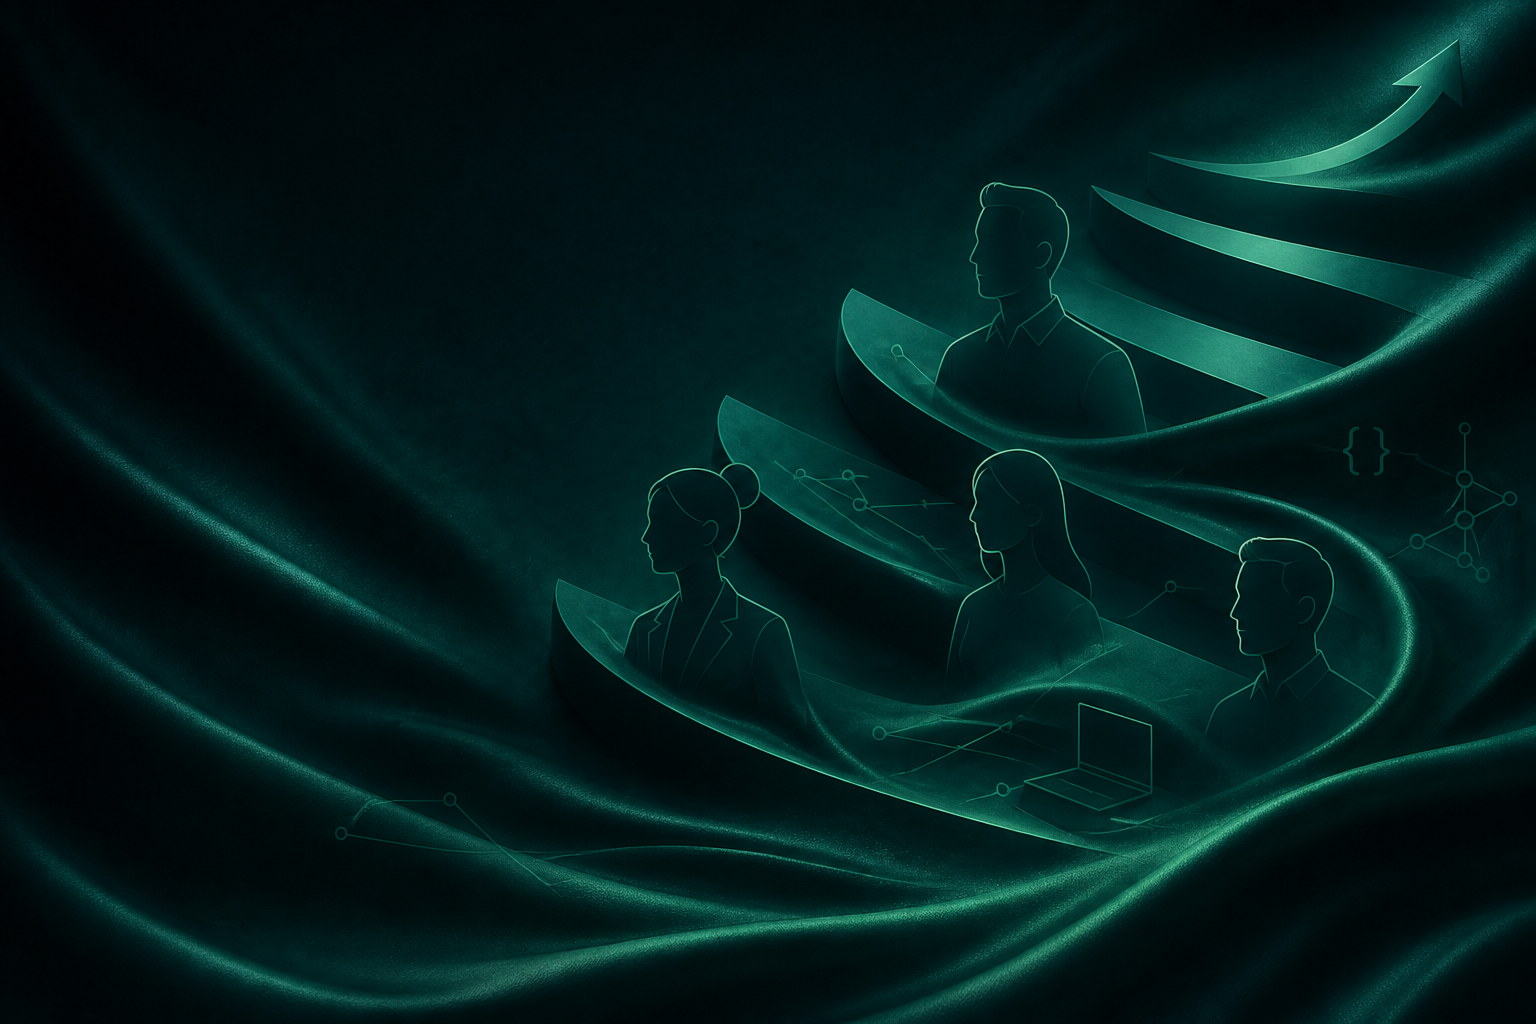
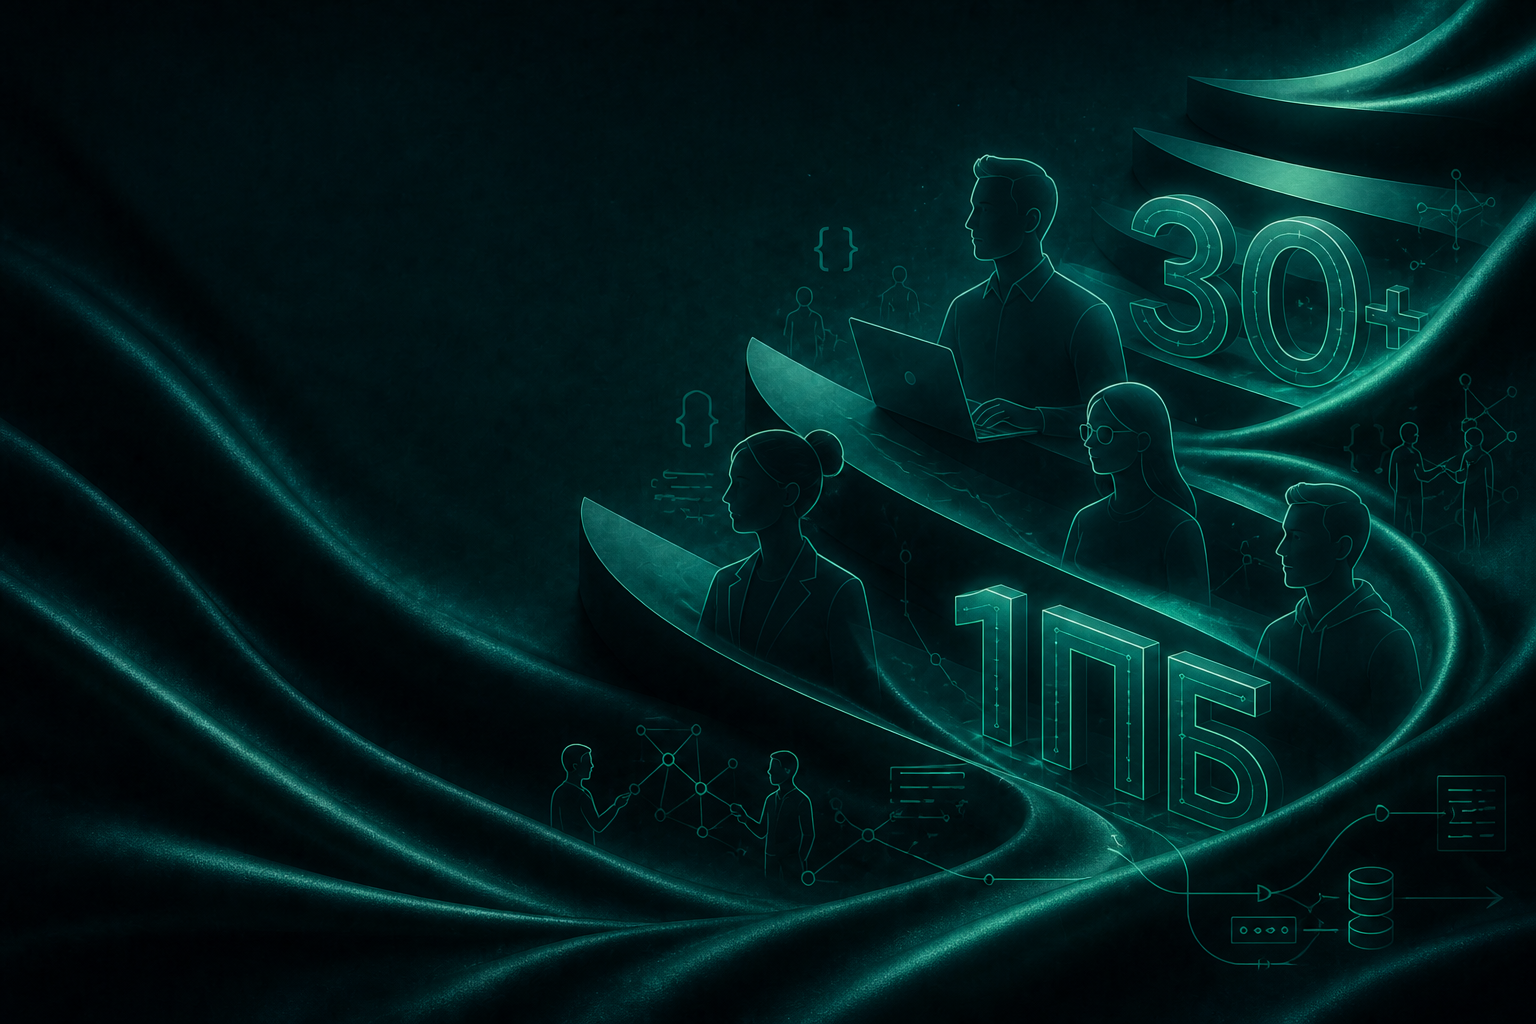
78787

diff --git a/site-map.html b/site-map.html
@@ -12,11 +12,14 @@
   <link rel="canonical" href="https://digi-track.ru/site-map.html"/>
   <meta name="robots" content="index, follow"/>
   <meta name="author" content="DigiTrack"/>
+  <meta http-equiv="Cache-Control" content="no-cache, no-store, must-revalidate"/>
+  <meta http-equiv="Pragma" content="no-cache"/>
+  <meta http-equiv="Expires" content="0"/>
   <link href="https://cdn.jsdelivr.net/npm/bootstrap@5.3.3/dist/css/bootstrap.min.css" rel="stylesheet"/>
   <link rel="preconnect" href="https://fonts.googleapis.com"/>
   <link rel="preconnect" href="https://fonts.gstatic.com" crossorigin/>
   <link href="https://fonts.googleapis.com/css2?family=Manrope:wght@400;500;600;700;800&display=swap" rel="stylesheet">
-  <link rel="stylesheet" href="./styles.css?v=20260831ad"/>
+  <link rel="stylesheet" href="./styles.css?v=2026083115"/>
   <link rel="icon" type="image/x-icon" href="/favicon.ico">
   <script type="application/ld+json">{
   "@context": "https://schema.org",
@@ -169,9 +172,9 @@
 }</script>
   <script type="application/ld+json">{"@context": "https://schema.org", "@type": "BreadcrumbList", "@id": "https://digi-track.ru/site-map.html#breadcrumb", "itemListElement": [{"@type": "ListItem", "position": 1, "name": "Главная", "item": "https://digi-track.ru/index.html"}, {"@type": "ListItem", "position": 2, "name": "Карта сайта", "item": "https://digi-track.ru/site-map.html"}]}</script>
 </head>
-<body class="site-map-page">
+<body class="site-map-page bg-deep">
 
-  <nav class="navbar navbar-expand-lg navbar-light sticky-top nav-glass nav-light" aria-label="Primary" style="background: rgba(255,255,255,.85); border: 1px solid rgba(0,0,0,.08); box-shadow: 0 18px 50px -28px rgba(0,0,0,.35), inset 0 1px rgba(255,255,255,.85);">
+  <nav class="navbar navbar-expand-lg navbar-light sticky-top nav-glass nav-light" aria-label="Primary" style="background:#ffffff; border:1px solid rgba(0,0,0,.08); box-shadow:0 18px 50px -28px rgba(0,0,0,.35);">
     <div class="container">
       <a class="navbar-brand fw-semibold" href="index.html" style="color:#020827 !important;">DigiTrack</a>
       <button class="navbar-toggler" type="button" data-bs-toggle="collapse" data-bs-target="#navMain" aria-controls="navMain" aria-expanded="false" aria-label="Переключить меню">
@@ -193,29 +196,35 @@
     </div>
   </nav>
 
-  <main>
-    <section class="hero-hero py-4 position-relative overflow-hidden" style="min-height: auto; background: transparent; color: var(--text-dark);">
-      <div class="container position-relative">
-        <nav class="breadcrumb-nav breadcrumb-nav--in-header" aria-label="Хлебные крошки">
-          <ol class="breadcrumb mb-0" itemscope itemtype="https://schema.org/BreadcrumbList">
-            <li class="breadcrumb-item" itemprop="itemListElement" itemscope itemtype="https://schema.org/ListItem">
-              <a itemprop="item" href="index.html"><span itemprop="name">Главная</span></a>
-              <meta itemprop="position" content="1"/>
-            </li>
-            <li class="breadcrumb-item active" itemprop="itemListElement" itemscope itemtype="https://schema.org/ListItem">
-              <span itemprop="name">Карта сайта</span>
-              <meta itemprop="position" content="2"/>
-            </li>
-          </ol>
-        </nav>
-        <h1 class="h1 mb-2 mt-0">Карта сайта</h1>
-        <p class="text-mute-300 mb-2">Полная структура сайта DigiTrack (ООО «ДТ»): продукты, услуги, материалы блога и служебные страницы.</p>
-        <p class="small mb-0"><a class="site-map-meta-link" href="sitemap.xml">XML-карта для поисковых систем (sitemap.xml) →</a></p>
-      </div>
-    </section>
+  <div class="breadcrumb-bar">
+    <div class="container">
+      <nav class="breadcrumb-nav breadcrumb-nav--under-nav" aria-label="Хлебные крошки">
+        <ol class="breadcrumb mb-0" itemscope itemtype="https://schema.org/BreadcrumbList">
+          <li class="breadcrumb-item" itemprop="itemListElement" itemscope itemtype="https://schema.org/ListItem">
+            <a itemprop="item" href="index.html"><span itemprop="name">Главная</span></a>
+            <meta itemprop="position" content="1"/>
+          </li>
+          <li class="breadcrumb-item active" itemprop="itemListElement" itemscope itemtype="https://schema.org/ListItem">
+            <span itemprop="name">Карта сайта</span>
+            <meta itemprop="position" content="2"/>
+          </li>
+        </ol>
+      </nav>
+    </div>
+  </div>
 
-    <section class="py-6 bg-section">
-      <div class="container">
+  <main>
+    <section id="site-map" class="blog-hub-page">
+      <div class="page-shell page-hero-banner">
+        <figure class="page-hero-visual mb-0" aria-hidden="true">
+          <video class="hero-video" src="img/frame-hero-animated.mp4" autoplay muted loop playsinline preload="metadata"></video>
+        </figure>
+      </div>
+      <div class="page-shell site-map-page-content">
+        <h1 class="blog-hub-title mb-3">Карта сайта</h1>
+        <p class="site-map-intro-text mb-2">Полная структура сайта DigiTrack (ООО «ДТ»): продукты, услуги, материалы блога и служебные страницы.</p>
+        <p class="site-map-intro-text mb-5"><a class="site-map-meta-link" href="sitemap.xml">XML-карта для поисковых систем (sitemap.xml) →</a></p>
+
         <div class="site-map-sections">
           <section class="glass pad-2x site-map-section" id="products">
             <h2 class="h5 fw-700 mb-3">Продукты и услуги</h2>

diff --git a/styles.css b/styles.css
@@ -323,13 +323,7 @@ body{
   box-shadow: 0 12px 40px -20px rgba(0,0,0,.2), inset 0 1px rgba(0,0,0,.05);
 }
 
-/* Light header on white pages (expert review, sitemap) */
-.expert-review-page .nav-glass.nav-light,
-.site-map-page .nav-glass.nav-light {
-  background: rgba(255, 255, 255, 0.75);
-  border: 1px solid rgba(0,0,0,.08);
-  box-shadow: 0 18px 50px -28px rgba(0,0,0,.35), inset 0 1px rgba(255,255,255,.8);
-}
+/* Light header on white pages (expert review, sitemap) — see block below for !important overrides */
 
 
 .nav-glass.nav-light .navbar-brand {
@@ -3365,21 +3359,32 @@ footer .col-6.col-lg-3:first-child {
   }
 }
 
-/* Expert review page: force light "converted" header (desktop/top) */
-.expert-review-page .nav-glass.nav-light{
-  background: rgba(255, 255, 255, 0.85) !important;
+/* Expert review & site map: force light header (desktop/top) */
+.expert-review-page .nav-glass.nav-light,
+.site-map-page .nav-glass.nav-light {
+  background: #ffffff !important;
+  backdrop-filter: none !important;
+  -webkit-backdrop-filter: none !important;
   border: 1px solid rgba(0,0,0,.08) !important;
   box-shadow: 0 18px 50px -28px rgba(0,0,0,.35), inset 0 1px rgba(255,255,255,.85) !important;
 }
-.expert-review-page .nav-glass.nav-light .navbar-brand{
+.expert-review-page .nav-glass.nav-light .navbar-brand,
+.site-map-page .nav-glass.nav-light .navbar-brand {
   color: #020827 !important;
 }
-.expert-review-page .nav-glass.nav-light .nav-link{
+.expert-review-page .nav-glass.nav-light .nav-link,
+.site-map-page .nav-glass.nav-light .nav-link {
   color: #020827 !important;
 }
-.expert-review-page .nav-glass.nav-light .nav-link:hover{
+.expert-review-page .nav-glass.nav-light .nav-link:hover,
+.site-map-page .nav-glass.nav-light .nav-link:hover {
   color: #020827 !important;
   background: rgba(0,0,0,.05) !important;
+}
+.expert-review-page .nav-glass.nav-light .btn-primary-gy,
+.site-map-page .nav-glass.nav-light .btn-primary-gy {
+  background: #1a4d3a !important;
+  color: #ffffff !important;
 }
 
 /* Data platform page */
@@ -4135,8 +4140,17 @@ details.seo-details summary {
   margin-bottom: 0;
 }
 
+.vacancies-shell {
+  max-width: var(--menu-width) !important;
+  width: 100%;
+  margin-left: auto;
+  margin-right: auto;
+  padding-left: 24px;
+  padding-right: 24px;
+}
+
 .vacancies-intro-text {
-  max-width: 44rem;
+  max-width: none;
   font-size: 1rem;
   font-weight: 400;
   line-height: 1.55;
@@ -4144,12 +4158,26 @@ details.seo-details summary {
   color: var(--muted-300, #6B7280) !important;
 }
 
+.vacancies-hero-banner {
+  margin: 0 auto;
+  padding-top: 1.25rem;
+  padding-left: 0 !important;
+  padding-right: 0 !important;
+}
+
+.vacancies-page-content {
+  padding-top: 1.5rem;
+  padding-bottom: 3.5rem;
+}
+
 .vacancies-hero-visual {
+  position: relative;
   margin: 0;
   border-radius: 1rem;
   overflow: hidden;
-  aspect-ratio: 16 / 9;
-  max-height: 22rem;
+  aspect-ratio: 32 / 9;
+  width: 100%;
+  background: var(--deeper);
 }
 
 .vacancies-hero-visual img {
@@ -4159,6 +4187,74 @@ details.seo-details summary {
   object-position: center;
   display: block;
   border-radius: 0 !important;
+}
+
+.vacancies-hero-visual .hero-video,
+.page-hero-visual .hero-video {
+  position: absolute;
+  inset: 0;
+  width: 100%;
+  height: 100%;
+  object-fit: cover;
+  object-position: center;
+  opacity: 0.85;
+  pointer-events: none;
+}
+
+/* Site map page — same shell layout as vacancies, white header */
+.page-shell {
+  max-width: var(--menu-width) !important;
+  width: 100%;
+  margin-left: auto;
+  margin-right: auto;
+  padding-left: 24px;
+  padding-right: 24px;
+}
+
+.page-hero-banner {
+  margin: 0 auto;
+  padding-top: 1.25rem;
+  padding-left: 0 !important;
+  padding-right: 0 !important;
+}
+
+.site-map-page-content {
+  padding-top: 1.5rem;
+  padding-bottom: 3.5rem;
+}
+
+.page-hero-visual {
+  position: relative;
+  margin: 0;
+  border-radius: 1rem;
+  overflow: hidden;
+  aspect-ratio: 32 / 9;
+  width: 100%;
+  background: var(--deeper);
+}
+
+.page-hero-visual img {
+  width: 100%;
+  height: 100%;
+  object-fit: cover;
+  object-position: center;
+  display: block;
+  border-radius: 0 !important;
+}
+
+.site-map-intro-text {
+  max-width: none;
+  font-size: 1rem;
+  font-weight: 400;
+  line-height: 1.55;
+  letter-spacing: normal;
+  color: var(--muted-300, #6B7280) !important;
+}
+
+#vacancies .glass > .d-flex h3 {
+  font-size: clamp(1.375rem, 2.2vw, 1.625rem);
+  font-weight: 700;
+  line-height: 1.3;
 }
 
 #vacancies .glass ul li::before {

diff --git a/vacancies.html b/vacancies.html
@@ -52,7 +52,7 @@
   <link href="https://fonts.googleapis.com/css2?family=Manrope:wght@400;500;600;700;800&display=swap" rel="stylesheet">
 
   <!-- App CSS -->
-  <link rel="stylesheet" href="./styles.css?v=20260831af"/>
+  <link rel="stylesheet" href="./styles.css?v=2026083115"/>
   
   <!-- Favicon and Icons -->
   <link rel="icon" type="image/x-icon" href="/favicon.ico">
@@ -105,13 +105,16 @@
   </div>
 
   <main>
-    <section id="vacancies" class="py-6 blog-hub-page">
-      <div class="container">
-        <figure class="vacancies-hero-visual mb-4" aria-hidden="true">
-          <img src="img/vacancies-abstract.png?v=1" alt="" loading="eager" width="1200" height="675">
+    <section id="vacancies" class="blog-hub-page">
+      <div class="vacancies-shell vacancies-hero-banner">
+        <figure class="vacancies-hero-visual mb-0" aria-hidden="true">
+          <video class="hero-video" src="img/frame-hero-animated.mp4" autoplay muted loop playsinline preload="metadata"></video>
         </figure>
-        <h1 class="blog-hub-title mb-3">Вакансии DigiTrack</h1>
-        <p class="vacancies-intro-text mb-5">Мы ищем талантливых специалистов для развития федеративного обучения и конфиденциальных вычислений<br/>Станьте частью команды, которая меняет будущее машинного обучения</p>
+      </div>
+      <div class="vacancies-shell vacancies-page-content">
+        <h1 class="blog-hub-title mb-4">Вакансии DigiTrack</h1>
+        <p class="vacancies-intro-text mb-2">Мы ищем талантливых специалистов для развития федеративного обучения и конфиденциальных вычислений</p>
+        <p class="vacancies-intro-text mb-5">Станьте частью команды, которая меняет будущее машинного обучения</p>
 
         <div class="row g-4">
           <!-- Руководитель разработки на B2C направление -->

diff --git a/data-platform.html b/data-platform.html
@@ -152,10 +152,7 @@
 <div class="row justify-content-center text-center">
           <div class="col-12 col-lg-10">
             <h1 class="display-5 fw-800 mb-3 text-white">Платформа данных on-premise</h1>
-            <p class="text-white mb-4 hero-lead-md geo-definition">Корпоративная платформа данных на Astra Linux: Hadoop, Spark, Kafka, Delta Lake. 1 ПБ+ в prod, zero downtime, без vendor lock-in. Полностью on-premise, собственная сборка Hadoop.</p>
-            <div class="d-flex flex-wrap justify-content-center gap-2">
-              <button type="button" class="btn btn-primary-gy px-4 py-2" data-bs-toggle="modal" data-bs-target="#contactModal">Расчёт ТСО</button>
-            </div>
+            <p class="text-white mb-0 hero-lead-md geo-definition">Корпоративная платформа данных на Astra Linux: Hadoop, Spark, Kafka, Delta Lake. 1 ПБ+ в prod, zero downtime, без vendor lock-in. Полностью on-premise, собственная сборка Hadoop.</p>
           </div>
         </div>
       </div>
